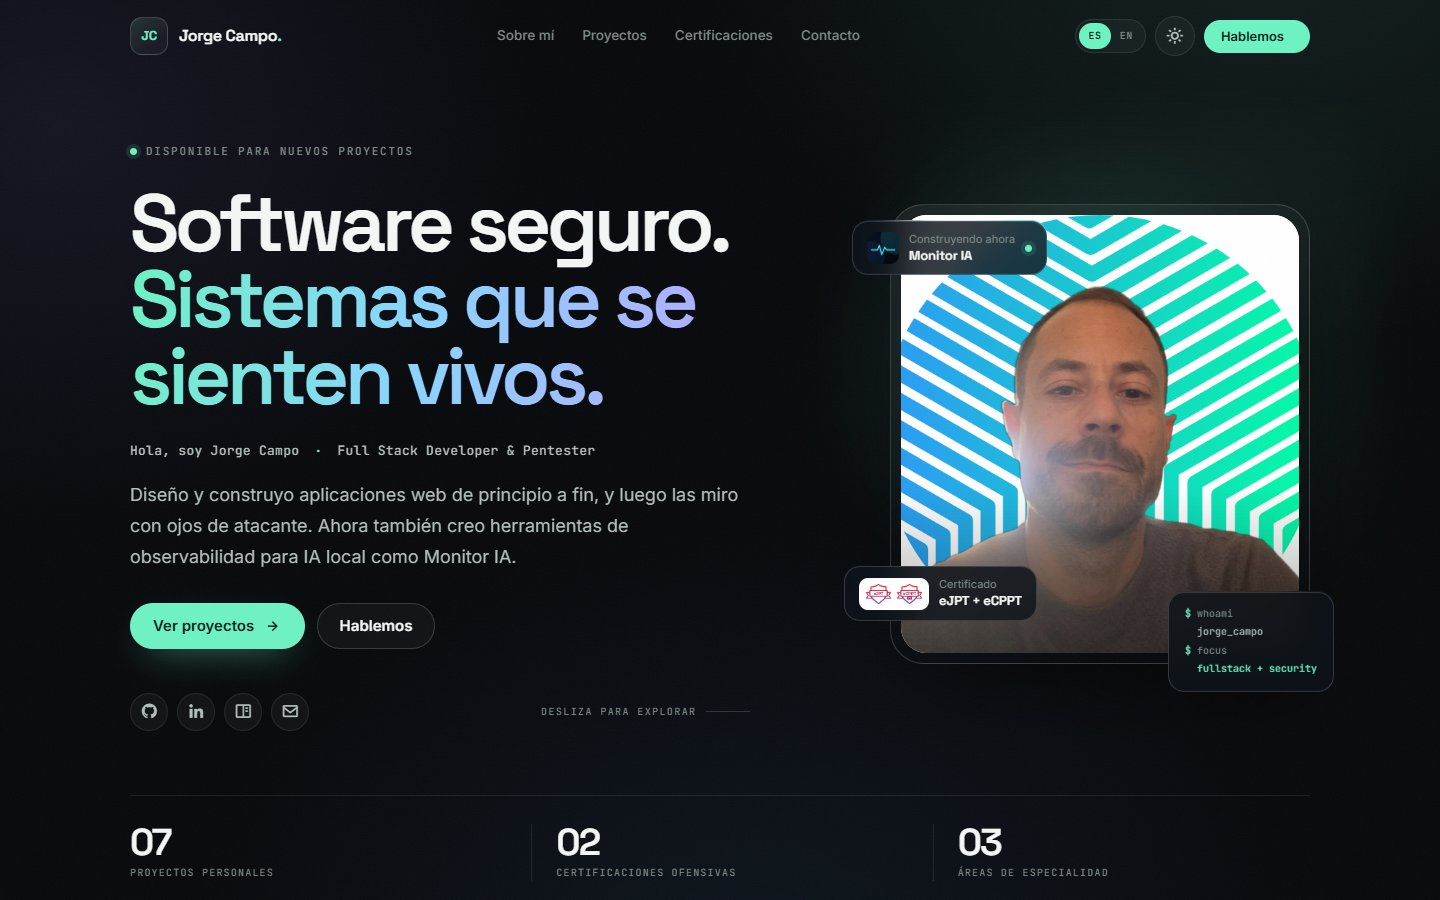
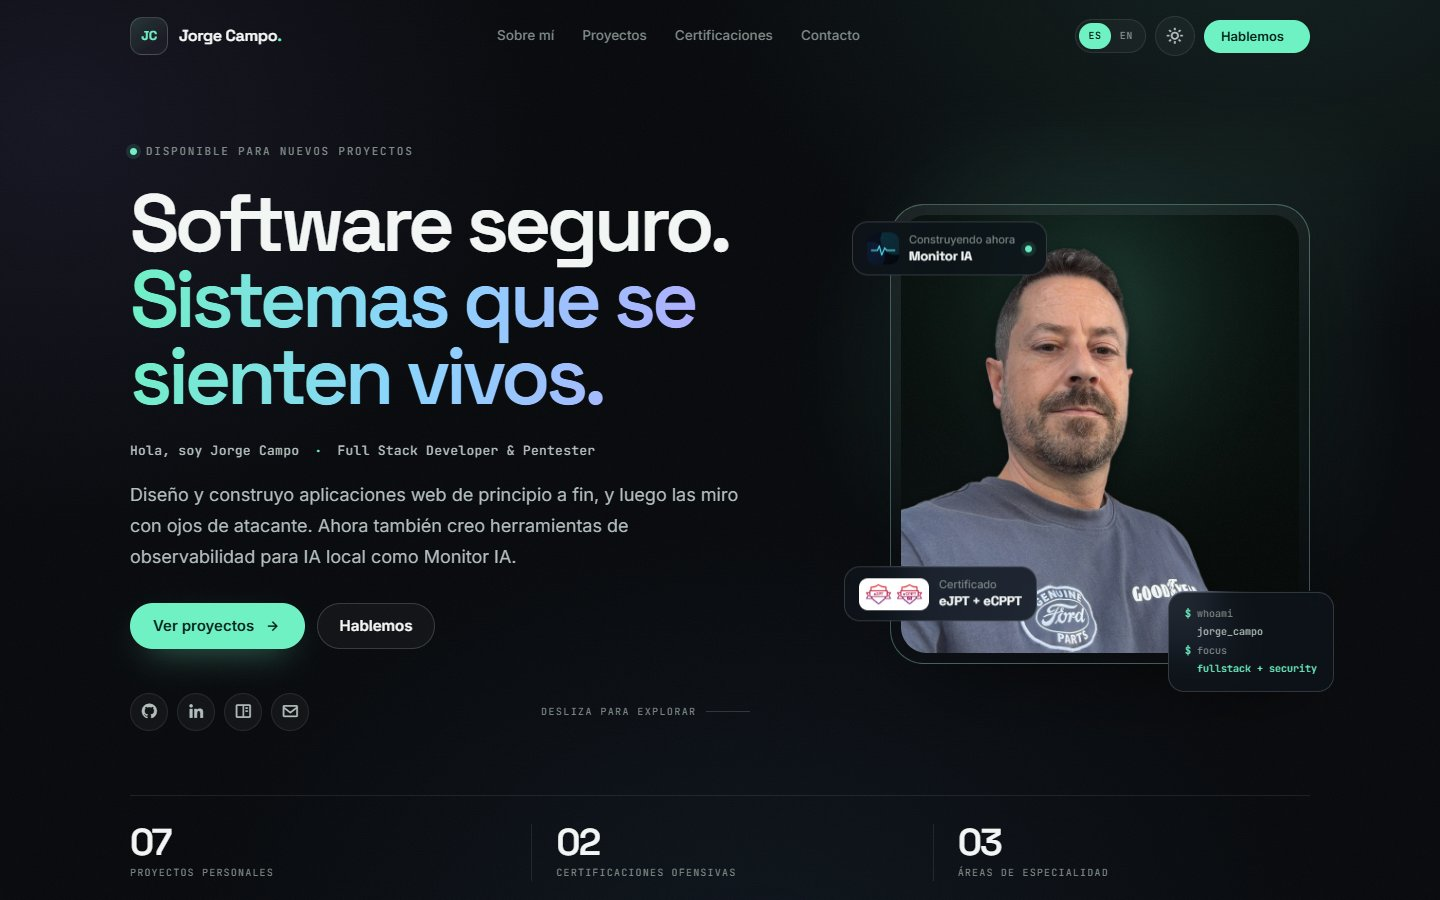
feat: renovar foto de perfil con fondo integrado
- Enderezar el retrato original y eliminar el fondo
- Adaptar la composición al estilo visual del portfolio
- Sustituir yo.png por un yo.jpg optimizado de 840x924
- Actualizar la captura de vista previa del README

Changed region(s): [[0.5938, 0.2178, 0.9062, 0.7467]]

diff --git a/css/styles.css b/css/styles.css
@@ -807,7 +807,7 @@ section[id] {
 .portrait__frame {
   position: relative;
   padding: 10px;
-  border: 1px solid var(--border-strong);
+  border: 1px solid color-mix(in srgb, var(--accent) 18%, var(--border-strong));
   border-radius: 34px;
   background: linear-gradient(155deg, var(--surface-2), transparent 55%);
   box-shadow: var(--shadow);
@@ -819,16 +819,6 @@ section[id] {
   object-fit: cover;
   object-position: 50% 20%;
   border-radius: 26px;
-  background: #ffffff;
-}
-
-.portrait__frame::after {
-  content: "";
-  position: absolute;
-  inset: 10px;
-  border-radius: 26px;
-  background: linear-gradient(to top, rgba(4, 12, 9, 0.38), transparent 38%);
-  pointer-events: none;
 }
 
 .float-card {

diff --git a/index.html b/index.html
@@ -206,11 +206,11 @@
               <div class="portrait__frame">
                 <img
                   class="portrait__img"
-                  src="./img/yo.png"
+                  src="./img/yo.jpg"
                   alt="Retrato de Jorge Campo"
                   data-i18n-alt="hero.portraitAlt"
-                  width="600"
-                  height="600"
+                  width="840"
+                  height="924"
                   fetchpriority="high"
                 />
               </div>

diff --git a/README.md b/README.md
@@ -57,7 +57,7 @@ Portfolio/
 └── img/
     ├── preview.jpg         # Captura usada en este README
     ├── monitor-ia.png      # Icono del proyecto destacado
-    ├── yo.png              # Retrato
+    ├── yo.jpg              # Retrato
     ├── ejpt.png            # Insignia eJPT
     └── ecppt.png           # Insignia eCPPT
 ```
